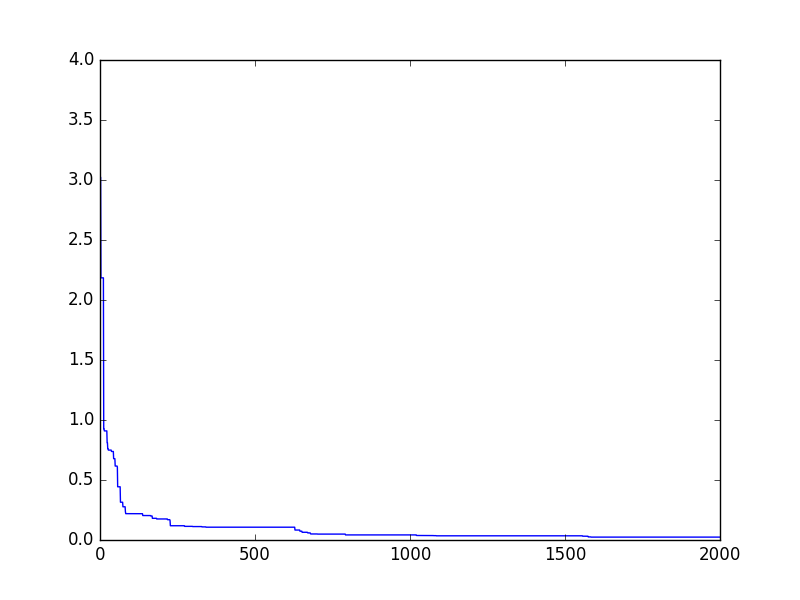
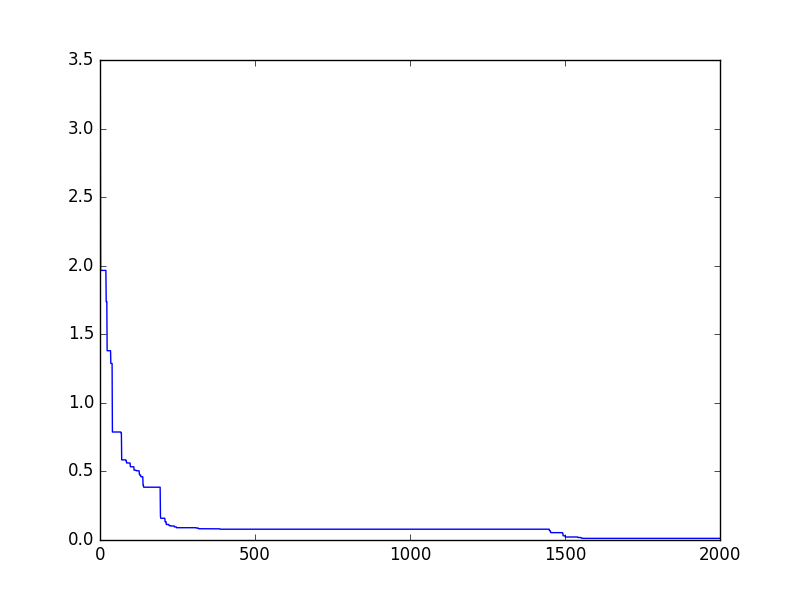
add noise handling method re-sampling

diff --git a/zoopt/parameter.py b/zoopt/parameter.py
@@ -16,36 +16,47 @@ class Parameter:
         This class contains all parameters used for optimization.
     """
 
-    def __init__(self, algorithm=None, budget=0, suppression=False, sequential=True, intermediate_result=False,
-                 intermediate_freq=100, autoset=True, precision=None,
-                 uncertain_bits=None, init_samples=None, time_budget=None, terminal_value=None, non_update_allowed=40,
-                 resample_times=100, num_sre=5, low_dimension=None, withdraw_alpha=None, variance_A=None):
+    def __init__(self, algorithm=None, budget=0, init_samples=None, time_budget=None, terminal_value=None, sequential=True,
+                 precision=None, uncertain_bits=None, intermediate_result=False, intermediate_freq=100, autoset=True,
+                 noise_handling=False, resampling=False, suppression=False, non_update_allowed=500, resample_times=100,
+                 high_dim_handling=False, sre=False, num_sre=5, low_dimension=None, withdraw_alpha=None, variance_A=None):
         """
         Initialization.
 
         :param algorithm: 'racos' or 'poss', 'racos' in defalut
-        :param budget: number of calls to the objective function
-        :param suppression: whether to use SSRacos(noise handling) to optimize objective function, False in default
-        :param sequential: whether to use SRacos, True in default
-        :param intermediate_result: whether to show intermediate result, False in default
-        :param intermediate_freq: frequency of showing intermediate result, it matters only when intermediate_result is True
-        :param autoset: whether to set train_size, positive_size, negative_size automatically, True in default
-        :param precision: precision of the result
-        :param uncertain_bits: uncertain bits
+        :param budget: number of calls to the objective function. If noise_handling and resampling is True, resample_times
+        calls to the objective function count as one budget
+
         :param init_samples:
             Initial samples provided by user. If init_samples is not None, the samples will be added
             into the first sampled solution set
         :param time_budget: If running time exceeds this value, optimization algorithm will return best solution immediately
         :param terminal_value: for early stop, procedure will stop in advance if this value is reached
+
+        :param sequential: whether to use SRacos, True in default
+        :param precision: precision of the result
+        :param uncertain_bits: uncertain bits
+
+
+        :param intermediate_result: whether to show intermediate result, False in default
+        :param intermediate_freq: frequency of showing intermediate result, it matters only when intermediate_result is True
+        :param autoset: whether to set train_size, positive_size, negative_size automatically, True in default
+
+        :param noise_handling: whether to use noise handling method
+        :param resampling: resampling noise handling method
+        :param suppression: value suppression noise handling method
         :param non_update_allowed: suppress solutions in positive set if positive set doesn't change for this period
         :param resample_times: re-sample times in value suppression
+
+        :param high_dim_handling: whether to use high-dimensionality handling method
+        :param sre: whether to use sequential random embedding
         :param num_sre: number of sequential random embedding.
         :param low_dimension: low dimension size of sequential random embedding
         :param withdraw_alpha: a parameter for random embedding
         :param variance_A: matrix to map high-dimensional input x to low-dimensional x'
         """
         self.__algorithm = algorithm
-        self.__budget = budget
+        self.__budget = budget if noise_handling is False or resampling is False else (budget / resample_times)
 
         # common parameters that all algorithm should accept
         self.__init_samples = init_samples
@@ -60,15 +71,18 @@ class Parameter:
         self.__positive_size = 0
         self.__negative_size = 0
         self.__probability = 0.99
+
         # for intermediate result
         self.__intermediate_result = intermediate_result
         tmp_freq = math.floor(intermediate_freq)
         self.__intermediate_freq = tmp_freq if tmp_freq >= 1 else 1
 
-        self.__resample_times = resample_times
-        self._suppression = suppression
-        # temp
+        # for noise handling
+        self.__noise_handling = noise_handling
+        self.__resampling = resampling
+        self.__suppression = suppression
         self.__non_update_allowed = non_update_allowed
+        self.__resample_times = resample_times
 
         # for pareto optimization
         self.__isolationFunc = lambda x: 0
@@ -76,19 +90,15 @@ class Parameter:
         if budget != 0 and autoset is True:
             self.auto_set(budget)
 
-        # for sequential random embedding
+        # for high-dimensionality handling: sequential random embedding
+        self.__high_dim_handling = high_dim_handling
+        self.__sre = sre
         self.__num_sre = num_sre
         self.__low_dimension = low_dimension if low_dimension is not None else Dimension(10, [[-1, 1]]*10, [True]*10)
         self.__withdraw_alpha = withdraw_alpha if withdraw_alpha is not None else Dimension(1, [[-1, 1]], [True])
         self.__variance_A = variance_A if variance_A is not None else 1.0/self.__low_dimension.get_size()
         return
 
-    # Set train_size, positive_size, negative_size by following rules:
-    # budget < 3 ->> error
-    # budget: 4-50 ->> train_size = 4, positive_size = 1
-    # budget: 51-100 ->> train_size = 6, positive_size = 1
-    # budget: 101-1000 ->> train_size = 12, positive_size = 2
-    # budget > 1001 ->> train_size = 22, positive_size = 2
     def auto_set(self, budget):
         """
         Set train_size, positive_size, negative_size by following rules:
@@ -119,8 +129,14 @@ class Parameter:
             self.__positive_size = 2
         self.__negative_size = self.__train_size - self.__positive_size
 
+    def get_noise_handling(self):
+        return self.__noise_handling
+
+    def get_resampling(self):
+        return self.__resampling
+
     def get_suppressioin(self):
-        return self._suppression
+        return self.__suppression
 
     def set_suppression(self, suppression):
         self._suppression = suppression
@@ -230,6 +246,12 @@ class Parameter:
 
     def get_intermediate_freq(self):
         return self.__intermediate_freq
+
+    def get_high_dim_handling(self):
+        return self.__high_dim_handling
+
+    def get_sre(self):
+        return self.__sre
 
     def get_num_sre(self):
         return self.__num_sre

diff --git a/zoopt/opt_algorithms/paretoopt/paretoopt.py b/zoopt/opt_algorithms/paretoopt/paretoopt.py
@@ -42,15 +42,6 @@ class ParetoOpt:
             s_temp[0, mustflip] = (s[0, mustflip] + 1) % 2
         return s_temp
 
-    # # This function is to find the index of s where element is 1
-    # def position(self, s):
-    #     n = np.shape(s)[1]
-    #     result = []
-    #     for i in range(0,n):
-    #         if s[0, i] == 1:
-    #             result.append(i)
-    #     return result
-
     def opt(self, objective, parameter):
         """
         pareto optimization.
@@ -70,7 +61,7 @@ class ParetoOpt:
 
         population = [sol]
         fitness = [sol.get_value()]
-        popSize = 1
+        pop_size = 1
         # iteration count
         t = 0
         T = parameter.get_budget()
@@ -78,41 +69,41 @@ class ParetoOpt:
             if t == 0:
                 time_log1 = time.time()
             # choose a individual from population randomly
-            s = population[gl.rand.randint(1, popSize)-1]
+            s = population[gl.rand.randint(1, pop_size)-1]
             # every bit will be flipped with probability 1/n
-            offSpringX = self.mutation(s.get_x(), n)
-            offSpring = objective.construct_solution(offSpringX)
-            objective.eval_constraint(offSpring)
-            offSpringFit = offSpring.get_value()
+            offspring_x = self.mutation(s.get_x(), n)
+            offspring = objective.construct_solution(offspring_x)
+            objective.eval_constraint(offspring)
+            offspring_fit = offspring.get_value()
             # now we need to update the population
             hasBetter = False
 
-            for i in range(0, popSize):
-                if isolationFunc(offSpringX) != isolationFunc(population[i].get_x()):
+            for i in range(0, pop_size):
+                if isolationFunc(offspring_x) != isolationFunc(population[i].get_x()):
                     continue
                 else:
-                    if (fitness[i][0] < offSpringFit[0] and fitness[i][1] >= offSpringFit[1]) or \
-                            (fitness[i][0] <= offSpringFit[0] and fitness[i][1] > offSpringFit[1]):
+                    if (fitness[i][0] < offspring_fit[0] and fitness[i][1] >= offspring_fit[1]) or \
+                            (fitness[i][0] <= offspring_fit[0] and fitness[i][1] > offspring_fit[1]):
                         hasBetter = True
                         break
-            # there is no better individual than offSpring
+            # there is no better individual than offspring
             if not hasBetter:
                 Q = []
                 Qfit = []
-                for j in range(0, popSize):
-                    if offSpringFit[0] <= fitness[j][0] and offSpringFit[1] >= fitness[j][1]:
+                for j in range(0, pop_size):
+                    if offspring_fit[0] <= fitness[j][0] and offspring_fit[1] >= fitness[j][1]:
                         continue
                     else:
                         Q.append(population[j])
                         Qfit.append(fitness[j])
-                Q.append(offSpring)
-                Qfit.append(offSpringFit)
+                Q.append(offspring)
+                Qfit.append(offspring_fit)
                 # update fitness
                 fitness=Qfit
                 # update population
                 population = Q
             t += 1
-            popSize = np.shape(fitness)[0]
+            pop_size = np.shape(fitness)[0]
 
             # display expected running time
             if t == 5:
@@ -123,13 +114,13 @@ class ParetoOpt:
                     h, m = divmod(m, 60)
                     ToolFunction.log('expected remaining running time: %02d:%02d:%02d' % (h, m, s))
 
-        resultIndex = -1
-        maxValue=float('inf')
-        for p in range(0, popSize):
+        result_index = -1
+        max_value=float('inf')
+        for p in range(0, pop_size):
             fitness = population[p].get_value()
-            if fitness[1] >= 0 and fitness[0] < maxValue:
-                maxValue = fitness[0]
-                resultIndex = p
-        return population[resultIndex]
+            if fitness[1] >= 0 and fitness[0] < max_value:
+                max_value = fitness[0]
+                result_index = p
+        return population[result_index]
 
 

diff --git a/zoopt/objective.py b/zoopt/objective.py
@@ -15,7 +15,7 @@ class Objective:
     """
     The class Objective represents the objective function and its associated variables
     """
-    def __init__(self, func=None, dim=None, constraint=None, resample_func=None, balance_rate=1, sre=False):
+    def __init__(self, func=None, dim=None, constraint=None, resample_func=None, balance_rate=1):
         """
         Initialization.
 
@@ -35,12 +35,26 @@ class Objective:
         self.__constraint = constraint
         # the history of optimization
         self.__history = []
+
+        self.__resample_times = 1
         self.__resample_func = self.resample_func if resample_func is None else resample_func
         self.__balance_rate = balance_rate
         # for sequential random embedding
-        self.__sre = sre
+        self.__sre = False
         self.__A = None
         self.__last_x = None
+
+    def parameter_set(self, parameter):
+        """
+        Use a Parameter object to set attributes in Objective object.
+
+        :param parameter: a Parameter object
+        :return: no return
+        """
+        if parameter.get_noise_handling() is True and parameter.get_resampling() is True:
+            self.__resample_times = parameter.get_resample_times()
+        if parameter.get_high_dim_handling() is True and parameter.get_sre() is True:
+            self.__sre = True
 
     def construct_solution(self, x, parent=None):
         """
@@ -62,19 +76,28 @@ class Objective:
         :param solution:
         :return: value of fx(evaluation result) will be returned
         """
-
-        if self.__sre is False:
-            val = self.__func(solution)
-        else:
-            x = solution.get_x()
-            x_origin = x[0] * np.array(self.__last_x.get_x()) + np.dot(self.__A, np.array(x[1:]))
-            val = self.__func(Solution(x=x_origin))
-        solution.set_value(val)
-        self.__history.append(solution.get_value())
+        res = []
+        for i in range(self.__resample_times):
+            if self.__sre is False:
+                val = self.__func(solution)
+            else:
+                x = solution.get_x()
+                x_origin = x[0] * np.array(self.__last_x.get_x()) + np.dot(self.__A, np.array(x[1:]))
+                val = self.__func(Solution(x=x_origin))
+            res.append(val)
+            self.__history.append(val)
+        value = sum(res) / float(len(res))
+        solution.set_value(value)
         solution.set_post_attach(self.__post_inherit())
-        return val
+        return value
 
     def resample(self, solution, repeat_times):
+        """
+        resample function for value suppression
+        :param solution: a Solution object
+        :param repeat_times: repeat times
+        :return: repeat times
+        """
         if solution.get_resample_value() is None:
             solution.set_resample_value(self.__resample_func(solution, repeat_times))
             solution.set_value((1 - self.__balance_rate) * solution.get_value() +

diff --git a/example/sequential_random_embedding/continuous_sphere_sre.py b/example/sequential_random_embedding/continuous_sphere_sre.py
@@ -20,11 +20,11 @@ def sphere_continuous_sre():
     dim_regs = [[-1, 1]] * dim_size  # dimension range
     dim_tys = [True] * dim_size  # dimension type : real
     dim = Dimension(dim_size, dim_regs, dim_tys)  # form up the dimension object
-    objective = Objective(sphere_sre, dim, sre=True)  # form up the objective function
+    objective = Objective(sphere_sre, dim)  # form up the objective function
 
     # setup algorithm parameters
     budget = 2000  # number of calls to the objective function
-    parameter = Parameter(budget=budget, num_sre=5, low_dimension=Dimension(10, [[-1, 1]] * 10, [True] * 10),
+    parameter = Parameter(budget=budget, high_dim_handling=True, sre=True, num_sre=5, low_dimension=Dimension(10, [[-1, 1]] * 10, [True] * 10),
                           withdraw_alpha=Dimension(1, [[-1, 1]], [True]), intermediate_result=False,
                           intermediate_freq=100)
     solution_list = ExpOpt.min(objective, parameter, repeat=1, plot=True, plot_file="img/sphere_continuous_sre.png")

diff --git a/example/simple_functions/opt_under_noise.py b/example/simple_functions/opt_under_noise.py
@@ -25,10 +25,12 @@ def minimize_ackley_continuous_noisy():
     # suppression=True means optimize with value suppression, which is a noise handling method
     # non_update_allowed=500 and resample_times=100 means if the best solution doesn't change for 500 budgets,
     # the best solution will be evaluated repeatedly for 100 times
-    parameter = Parameter(budget=budget, suppression=True, non_update_allowed=500, resample_times=100)
-    parameter.set_positive_size(5)
+    # parameter = Parameter(budget=budget, noise_handling=True, suppression=True, non_update_allowed=500, resample_times=100)
 
-    ExpOpt.min(objective, parameter, repeat=1, plot=True, plot_file="img/ackley_continuous_noisy_figure.png")
+    parameter = Parameter(budget=budget, noise_handling=True, resampling=True, resample_times=10)
+    # parameter.set_positive_size(5)
+
+    ExpOpt.min(objective, parameter, repeat=5, plot=True, plot_file="img/ackley_continuous_noisy_figure.png")
 
 if __name__ == '__main__':
     minimize_ackley_continuous_noisy()

diff --git a/zoopt/opt_algorithms/racos/racos_optimization.py b/zoopt/opt_algorithms/racos/racos_optimization.py
@@ -45,15 +45,12 @@ class RacosOptimization:
         if ub is None:
             ub = self.choose_ub(objective)
         if parameter.get_sequential():
-            if not parameter.get_suppressioin():
-                self.__algorithm = SRacos()
-                self.__best_solution = self.__algorithm.opt(
-                    objective, parameter, strategy, ub)
-            else:
-
+            if parameter.get_noise_handling() is True and parameter.get_suppressioin() is True:
                 self.__algorithm = SSRacos()
-                self.__best_solution = self.__algorithm.opt(
-                    objective, parameter, strategy, ub)
+            else:
+                self.__algorithm = SRacos()
+            self.__best_solution = self.__algorithm.opt(
+                objective, parameter, strategy, ub)
         else:
             self.__algorithm = Racos()
             self.__best_solution = self.__algorithm.opt(

diff --git a/zoopt/opt.py b/zoopt/opt.py
@@ -27,6 +27,7 @@ class Opt:
         :param parameter: parameter
         :return: result of optimization
         """
+        objective.parameter_set(parameter)
         Opt.set_global(parameter)
         constraint = objective.get_constraint()
         algorithm = parameter.get_algorithm()

diff --git a/zoopt/exp_opt.py b/zoopt/exp_opt.py
@@ -27,6 +27,7 @@ class ExpOpt:
         :param seed: random seed of the optimization
         :return:
         """
+        objective.parameter_set(parameter)
         ret = []
         if best_n is None:
             best_n = repeat
